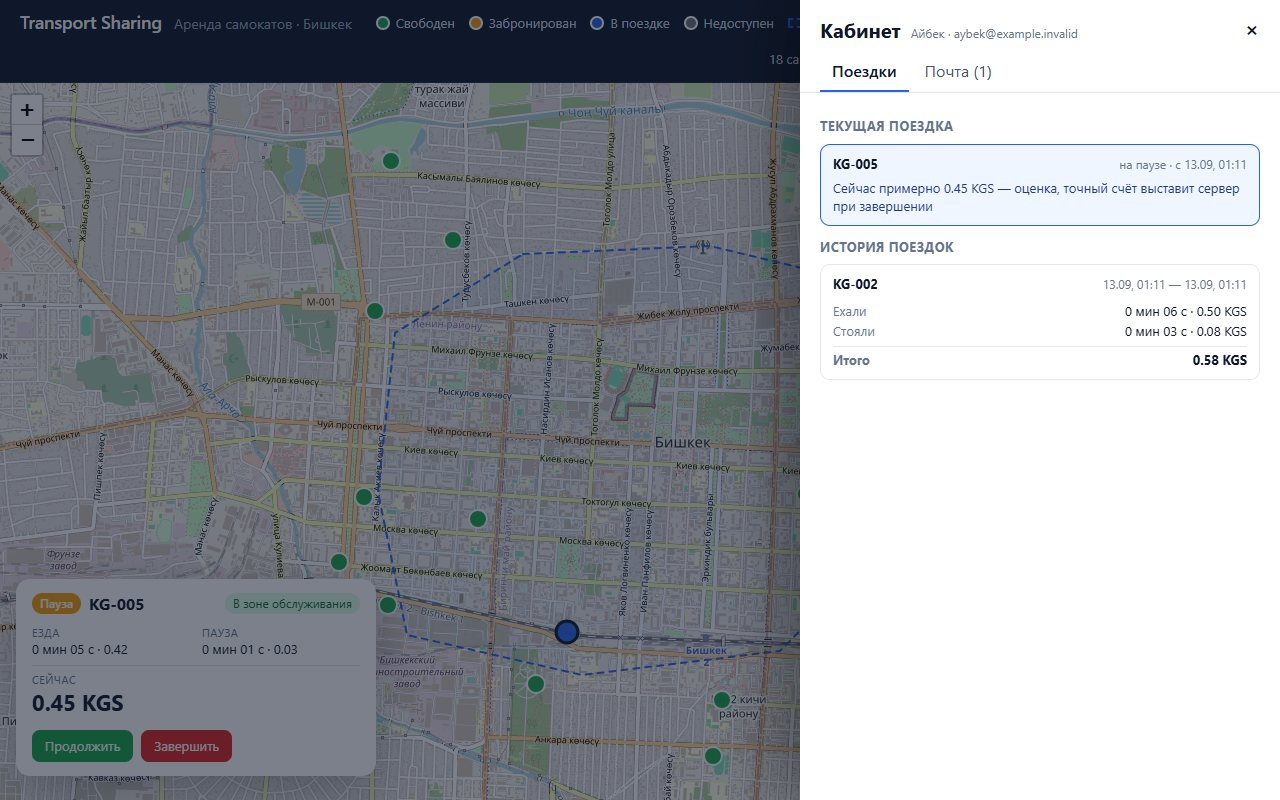
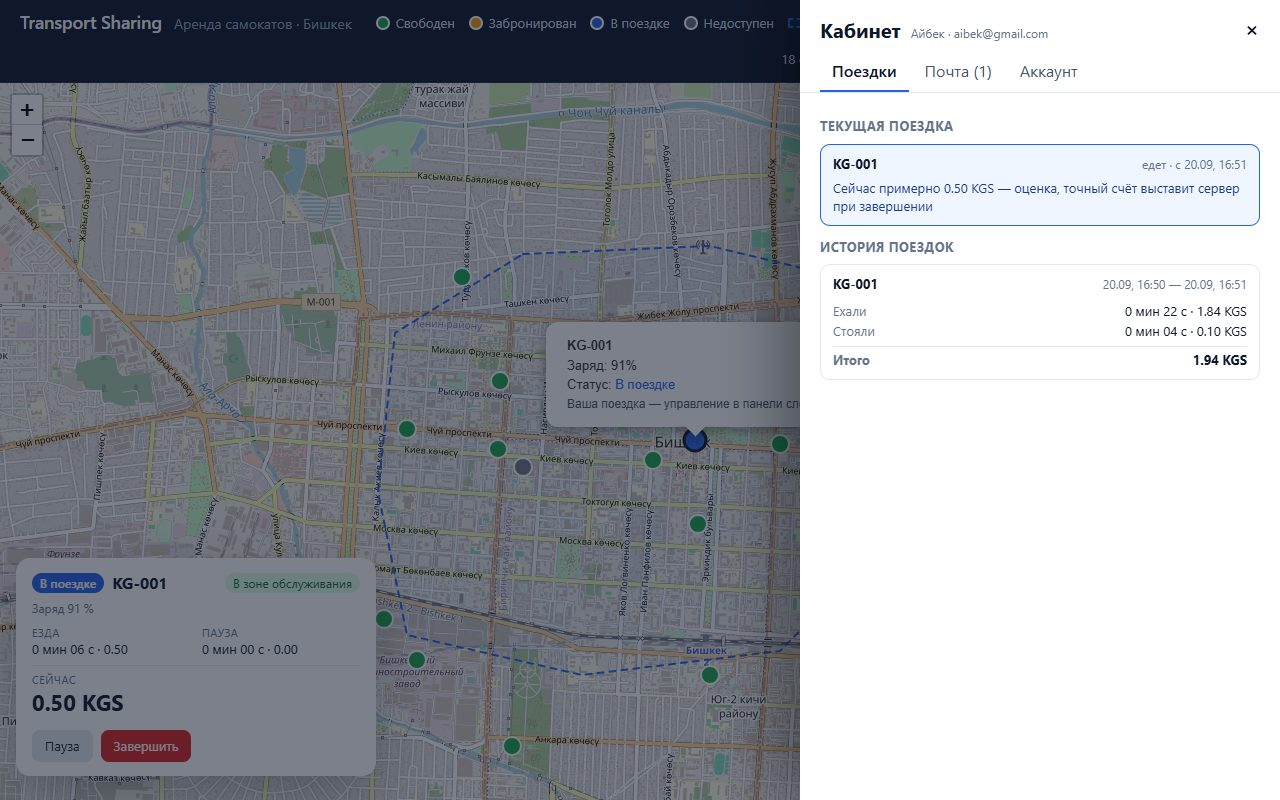
docs: fresh-clone walkthrough for the release — DNS-timeout note, refreshed cabinet screenshots, DEVLOG

diff --git a/DEVLOG.md b/DEVLOG.md
@@ -1483,3 +1483,49 @@ cookie/токену; раздел «Как устроены аккаунты и 
 попыток входа» (по почте и по IP, счётчик в базе или Redis) — первое, что закрывать перед
 выходом к людям. Остальные пункты обоих списков перенумерованы, перекрёстные ссылки («Что дальше»,
 п. 1; отправка почты — п. 5) проверены. Кода не касалось.
+
+## 2026-09-20 17:01 — Сдача: документация под текущую схему и проход из чистого клона
+
+**Находка до начала работы: коммиты PR #9 не попали в `main`.** PR #9 был открыт на
+`feature/demo-fixes`, пока #8 не был смержен; потом #8 смержили в `main` (19.09 17:12), а #9 —
+в `feature/demo-fixes` (17:28). В `main` остался код без регистрации и README про старую схему —
+это и увидел владелец. Открыт PR #10 `feature/demo-fixes → main`: ровно содержимое #9, уже
+прошедшее ревью, нового кода нет. Ветка `feature/release-docs` построена поверх
+`feature/demo-fixes`, PR #11 — только документация; порядок мержа описан в обоих PR.
+
+**README.** Прочитан целиком. Убраны последние упоминания старой схемы: «заголовок не читается»
+переписано без названия заголовка (критерий приёмки — ни одного упоминания), «аккаунт без пароля»
+→ «ещё не зарегистрированный аккаунт из старой версии»; ограничение 17 («нет и cookie-сессий»)
+приведено к cookie с `SameSite=Lax`; раздел про почту-заглушку — адрес аккаунта, транслитерация
+имени только для старых строк; рецепт с токеном для `curl` без зависимости от `python` на
+машине проверяющего; «Что дальше», п. 4 «Оплата» — заглушка платёжной системы со статусами
+«подтверждено / отклонено / зависло», идемпотентная оплата счёта, письмо об оплате; счётчики
+тестов (186 / 1047, 43, 68), число PR и дат, этапы 1–10; две пустые строки перед заголовками,
+потерянные при перенумерации; скриншоты `account.jpg` и `email-invalid.jpg` пересняты с новым
+кабинетом (три вкладки, почта во вкладке «Аккаунт»).
+
+**Проход из чистого клона** (`feature/release-docs`, пустой том базы, `cp .env.example .env`,
+`docker compose up --build`; на этой машине заняты 3000 и 5432, поэтому в `.env` — 3100 и 15432,
+как README и советует): семь миграций, 18 самокатов, зона; `X-User-Id` без сессии — 401.
+Playwright, два изолированных контекста как обычное окно и инкогнито: регистрация «Айбек» и
+«Дана», обе вошли; гонка за `KG-001` — 201 и 409 `scooter_not_available`, у проигравшей в попапе
+«Забронирован другим пользователем» и жёлтый маркер, у победителя «МОЯ БРОНЬ» по личному событию;
+поездка: старт, пауза (0.08 за 3 с), возобновление, чек 1.84 + 0.10 = 1.94, «Почта · 1», письмо
+на `aibek@gmail.com`; кабинет: текущая поездка с оценкой и история; `aibek@gmail` — подсказка про
+домен.
+
+**Находка: DNS из контейнера отвечает не с первого раза.** `aibek@gmail.con` при проходе был
+*принят*: в логе `DNS check of gmail.con skipped … timed out` — сработало правило «DNS молчит —
+принимаем». Разбор: из процесса приложения первый DNS-запрос каждой серии ждёт полные 2 с (обе
+попытки), следующие отвечают за десятки миллисекунд; из отдельного процесса в том же контейнере
+(и под asyncio, и под uvloop, и после 70 с простоя) таймаутов нет вовсе. Воспроизводится только в
+Docker Desktop на Windows; на CI и в отдельных процессах — нет. Код в этом PR не трогается,
+поэтому: в README рядом с рецептом сказано, как это выглядит и что делать (посмотреть лог,
+повторить с другим адресом); в «Что дальше» это укладывается в п. 2 (проверка почты письмом
+заменит DNS-проверку). Возможный код-фикс на потом: после таймаута повторить проверку целиком
+ещё раз, прежде чем принимать адрес, — стоит две лишние секунды только в момент сбоя.
+
+**Проверки.** DEVLOG — 43 записи, PROMPTS — 20, все с датой и временем, в хронологическом
+порядке, последние — сегодняшние. В репозитории только рабочие файлы (`git ls-files` просмотрен),
+локальные `.env`, `.idea/`, кэши — в `.gitignore`. Тесты и линт не менялись (код не трогался);
+CI на PR.

diff --git a/README.md b/README.md
@@ -65,13 +65,13 @@ docker compose up --build
 | --- | --- |
 | ![Панель поездки на паузе](docs/images/ride-paused.jpg) | ![Отказ завершить поездку вне зоны](docs/images/ride-outside.jpg) |
 
-| Чек после завершения внутри зоны | Кабинет: текущая поездка и история с разбивкой |
+| Чек после завершения внутри зоны | Кабинет, «Поездки»: текущая поездка и история с разбивкой |
 | --- | --- |
 | ![Чек с разбивкой езды и паузы](docs/images/ride-receipt.jpg) | ![Кабинет с текущей поездкой и историей](docs/images/account.jpg) |
 
-| Почта: по одному письму-чеку на поездку | Адрес для чеков: подсказка при неверном формате |
+| Почта: по одному письму-чеку на поездку | Почта аккаунта (вход и чеки): подсказка при неверном формате |
 | --- | --- |
-| ![Почтовый ящик с письмами-чеками](docs/images/mailbox.jpg) | ![Поле почты с подсказкой под ним](docs/images/email-invalid.jpg) |
+| ![Почтовый ящик с письмами-чеками](docs/images/mailbox.jpg) | ![Поле почты во вкладке «Аккаунт» с подсказкой под ним](docs/images/email-invalid.jpg) |
 
 | Самокат разрядился: чек с пояснением и уведомление | Письмо о поездке, завершённой из-за разрядки |
 | --- | --- |
@@ -211,6 +211,10 @@ curl -X POST http://localhost:8000/api/rides/ID/finish -H "Authorization: Bearer
   пользователя; `EMAIL_DOMAIN_CHECK=false` выключает проверку совсем (в CI и тестах она
   выключена). Введите `aibek@gmail` — «После @ нужен домен с точкой»; `aibek@gmail.con` — «У
   домена нет почтового сервера»; `aibek@gmail.com` — сохранится, и следующий чек уйдёт на него.
+  Если `aibek@gmail.con` вдруг сохранился — DNS из контейнера не ответил за 2 с и сработало
+  правило «не блокировать пользователя»: в `docker compose logs backend` будет `WARNING … DNS
+  check of gmail.con skipped`; повторите с другим адресом (`aibek@gmail2.con`) — в Docker Desktop
+  на Windows такое случается на первом запросе после паузы, следующие отвечают за миллисекунды.
   Убрать адрес нельзя — по нему вы входите; у аккаунтов из старых версий без почты чеки идут на
   адрес из имени (`aybek@example.invalid`), пока они не зарегистрируются. **Существование самого
   ящика не проверяется** — без отправки письма это невозможно, а почта здесь заглушка.
